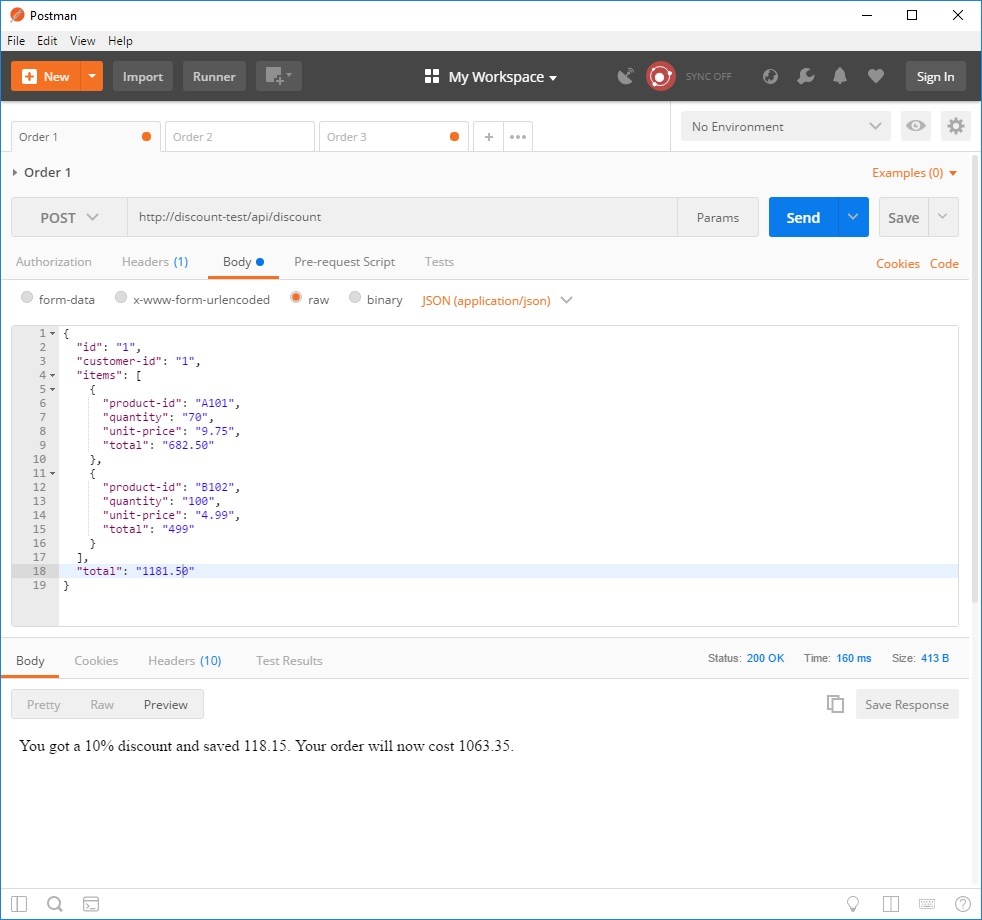
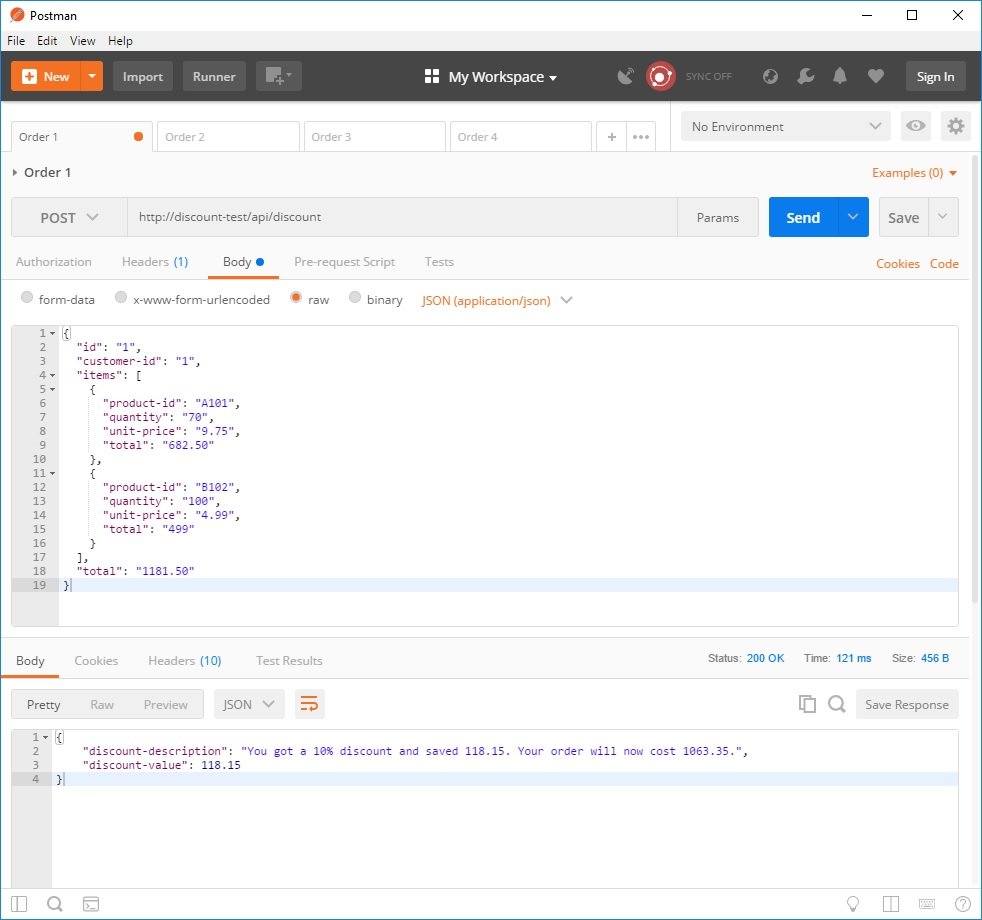
adding print screens and update read me

diff --git a/discount-test/app/Discounts/CategoryDiscount.php b/discount-test/app/Discounts/CategoryDiscount.php
@@ -5,6 +5,7 @@ use App\Products;
 
 class CategoryDiscount
 {
+    const CHEAPEST_DISCOUNT = 20;
 
     private $items;
 
@@ -22,18 +23,20 @@ class CategoryDiscount
     {
 
         $categoriesQuantities = $this->getProductCategoryIds($this->items);
-        $discountMessage      = [];
-
+        $discounts = [];
         if ($this->getTotalQuantityByCategory($categoriesQuantities, 2) >= 5) {
-            $discountMessage = ["Got a sixth product for free from category 'Switches'"];
+            $discounts[] = ['discount-description' => "Got a sixth product for free from category 'Switches'",
+            'discount-value' => $this->getProductFromCategory($categoriesQuantities, 2)['unit-price']];
         }
 
         if ($this->getTotalQuantityByCategory($categoriesQuantities, 1) >= 2) {
-            $discountMessage = array_merge($discountMessage , ["Got a 20% discount on Product ID: ".
-                $this->getCheapestProductFromCategory($categoriesQuantities, 1) . " from category 'Tools'"]);
+            $cheapestProduct = $this->getCheapestProductFromCategory($categoriesQuantities, 1);
+            $discountValue = number_format((float)($cheapestProduct['unit-price'] * (self::CHEAPEST_DISCOUNT / 100)), 2, '.', '');
+            $discounts[] = [ 'discount-description' =>"Got a 20% discount on Product ID: ". $cheapestProduct['product-id'] . " from category 'Tools'",
+                  'discount-value' => $discountValue];
         }
 
-        return (!empty($discountMessage)) ? response()->json(['discount' => $discountMessage]) : false;
+        return (!empty($discounts)) ? response()->json($discounts) : false;
     }
 
     /**
@@ -87,8 +90,28 @@ class CategoryDiscount
                 $products[$category['product-id']] = $category['unit-price'];
             }
         }
-
         $productId = array_keys($products, min($products))[0];
-        return $productId;
+        $product['product-id'] = $productId;
+        $product['unit-price'] = $products[$productId];
+        return $product;
+    }
+
+    /**
+     * Get  product from a category and return his info
+     *
+     * @param $categoriesQuantities
+     * @param $categoryId
+     * @return mixed
+     */
+    private function getProductFromCategory($categoriesQuantities, $categoryId)
+    {
+        foreach ($categoriesQuantities as $category) {
+            if ($category['category'] == $categoryId) {
+                $product = $category;
+                break;
+            }
+        }
+
+        return $product;
     }
 }

diff --git a/discount-test/tests/Unit/DiscountTest.php b/discount-test/tests/Unit/DiscountTest.php
@@ -42,7 +42,10 @@ class DiscountTest extends TestCase
 
         $response = $this->call('POST', route('discount'), [], [], [], $server, json_encode($order1));
 
-        $response->assertJson(['discount' => "You got a 10% discount and saved 118.15. Your order will now cost 1063.35."]);
+        $response->assertJson([
+            'discount-description' => "You got a 10% discount and saved 118.15. Your order will now cost 1063.35.",
+            'discount-value'       => 118.15,
+        ]);
     }
 
     /**
@@ -74,7 +77,7 @@ class DiscountTest extends TestCase
 
         $response = $this->call('POST', route('discount'), [], [], [], $server, json_encode($order2));
 
-        $response->assertJson(['discount' => ["Got a sixth product for free from category 'Switches'"]]);
+        $response->assertJson([['discount-description' => "Got a sixth product for free from category 'Switches'", 'discount-value' => 4.99,]]);
     }
 
     /**
@@ -112,6 +115,6 @@ class DiscountTest extends TestCase
 
         $response = $this->call('POST', route('discount'), [], [], [], $server, json_encode($order3));
 
-        $response->assertJson(['discount' => ["Got a 20% discount on Product ID: A101 from category 'Tools'"]]);
+        $response->assertJson([['discount-description' => "Got a 20% discount on Product ID: A101 from category 'Tools'", 'discount-value' => 1.95]]);
     }
 }

diff --git a/discount-test/app/Discounts/TotalDiscount.php b/discount-test/app/Discounts/TotalDiscount.php
@@ -20,6 +20,7 @@ class TotalDiscount
         $discountTotal = $this->total * (self::DISCOUNT / 100);
         $discountedPrice = $this->total - $discountTotal;
 
-        return response()->json(['discount' => "You got a " . self::DISCOUNT . "% discount and saved " . $discountTotal . ". Your order will now cost " . $discountedPrice . "."]);
+        return response()->json(['discount-description' => "You got a " . self::DISCOUNT . "% discount and saved " . $discountTotal . ". Your order will now cost " . $discountedPrice . ".",
+        'discount-value' => $discountTotal]);
     }
 }

diff --git a/discount-test/app/Http/Controllers/DiscountController.php b/discount-test/app/Http/Controllers/DiscountController.php
@@ -27,6 +27,6 @@ class DiscountController extends Controller
             return $categoryDiscount->getCategoryDiscount();
         }
 
-        return response()->json(['discount' => 'Your order got no discount.']);
+        return response()->json(['discount-description' => 'Your order got no discount.', 'discount-value' => 0]);
     }
 }

diff --git a/README.md b/README.md
@@ -65,4 +65,4 @@ http://discount-test/api/discount
 ```
 To test the order requests i've used the Postman application on my local you have [here](/discount-test/postman_screens/) some print screens
 
-
+Unit test ar found in the folder /tests/Unit/DiscountTest.php you can run them with PHPUnit.

diff --git a/discount-test/readme.md b/discount-test/readme.md
@@ -65,4 +65,6 @@ http://discount-test/api/discount
 ```
 To test the order requests i've used the Postman application on my local you have [here](postman_screens/) some print screens
 
+Unit test ar found in the folder /tests/Unit/DiscountTest.php you can run them with PHPUnit.
+
 
